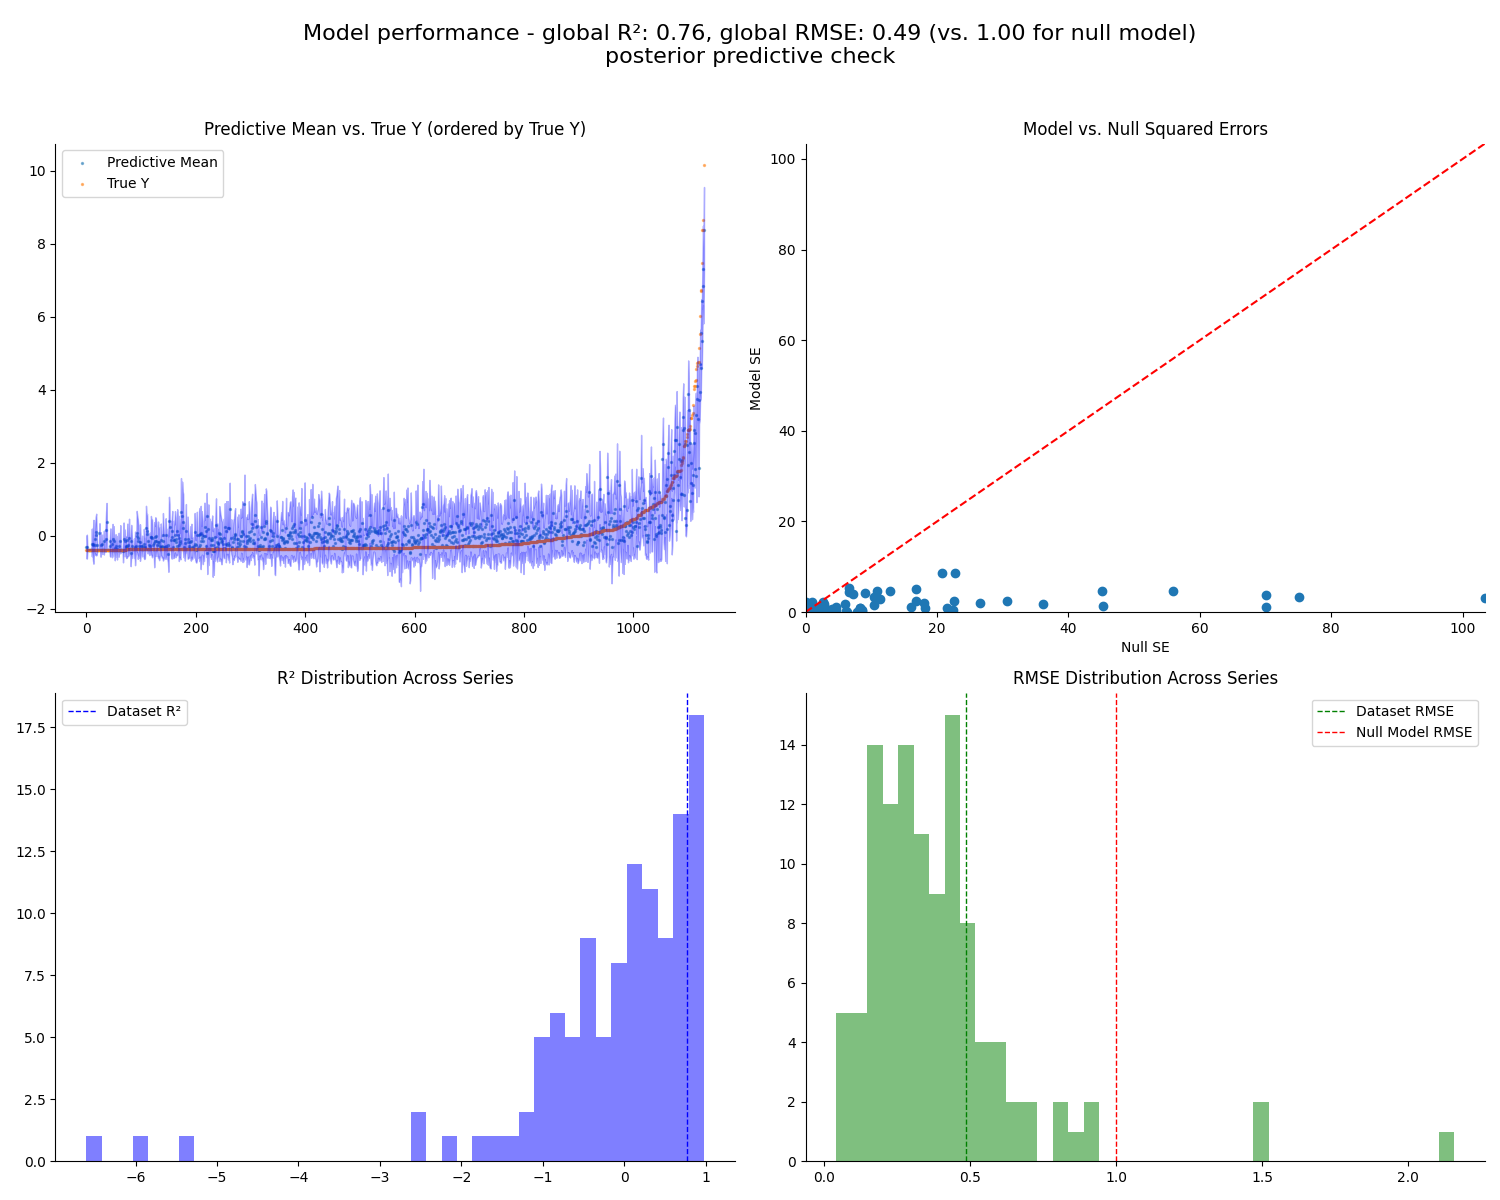
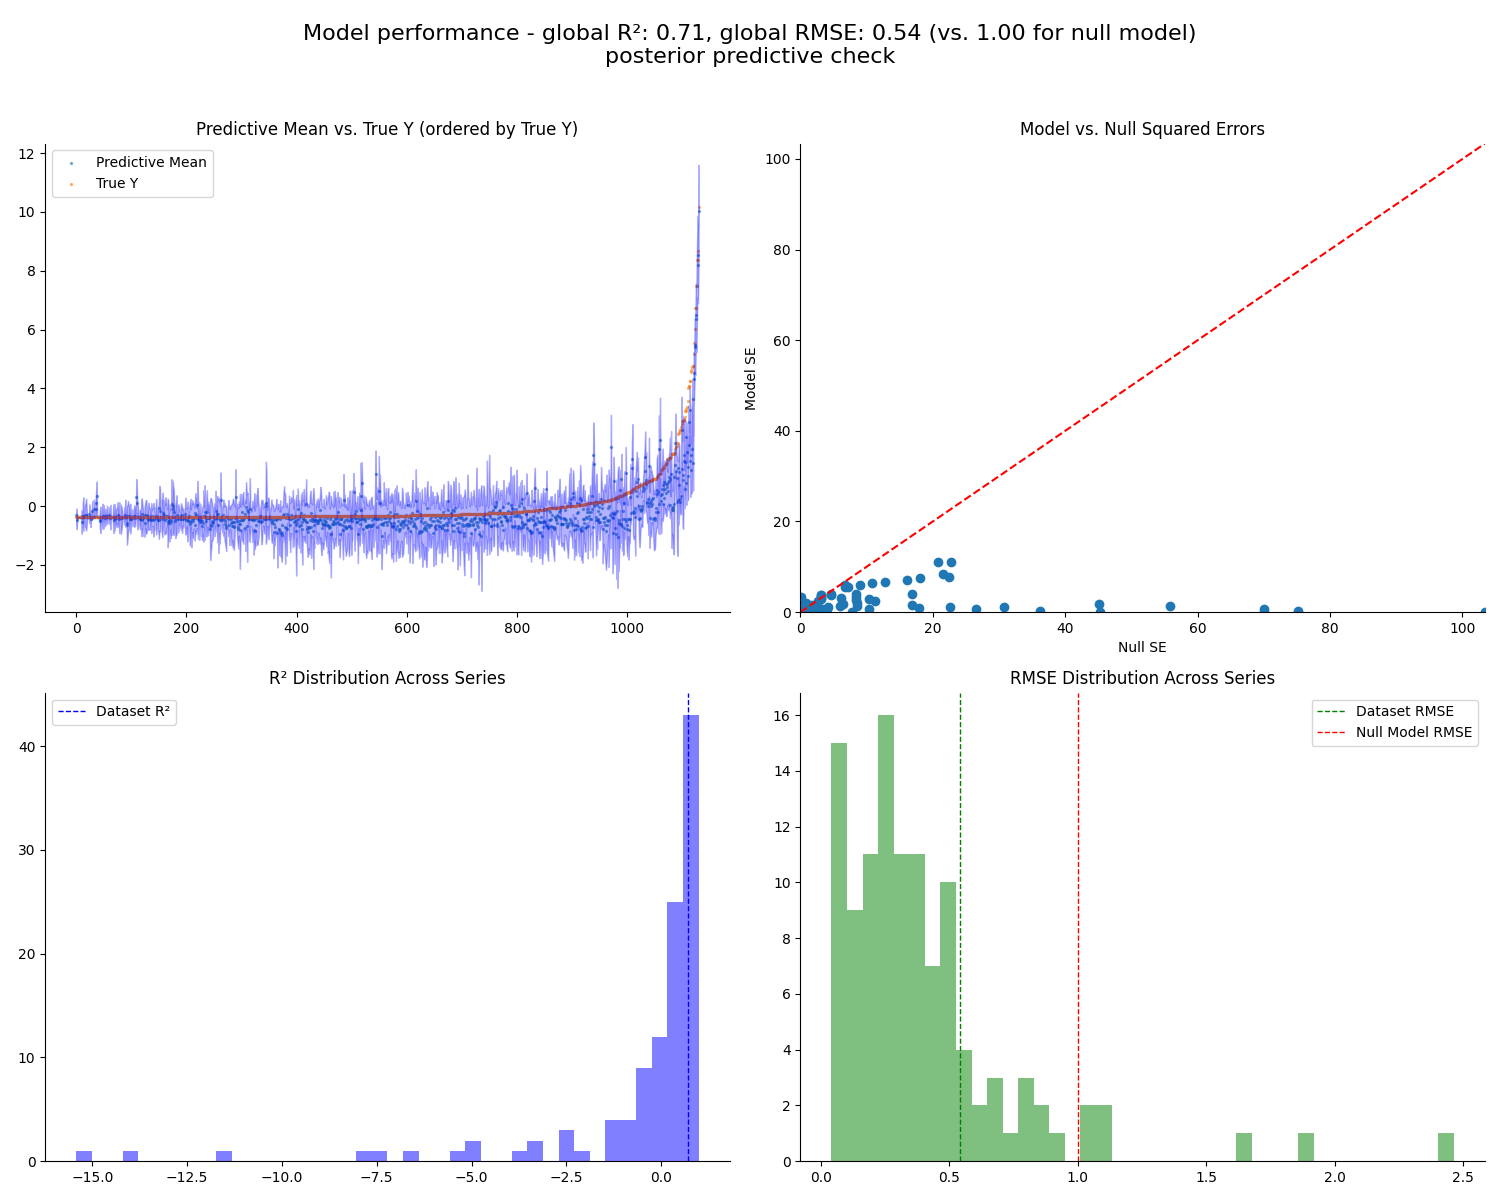
median value added

diff --git a/cities/modeling/zoning_models/zoning_tracts_ts_model.py b/cities/modeling/zoning_models/zoning_tracts_ts_model.py
@@ -10,6 +10,7 @@ from cities.modeling.model_components import (
     get_n,
     get_categorical_levels,
     check_categorical_is_subset_of_levels,
+    add_linear_component,
 )
 
 
@@ -110,9 +111,9 @@ class TractsModelCumulativeAR1(pyro.nn.PyroModule):
 
             ## temporary plug in of predictors meant to come from a causal model
 
-            median_value = pyro.sample(
-                "median_value", dist.Normal(0, 1), obs=continuous["median_value"]
-            )
+            # median_value = pyro.sample(
+            #     "median_value", dist.Normal(0, 1), obs=continuous["median_value"]
+            # )
             
             income = pyro.sample( 
                 "income", dist.Normal(0, 1), obs=continuous["income"]
@@ -145,6 +146,33 @@ class TractsModelCumulativeAR1(pyro.nn.PyroModule):
                 dist.Normal(0, 1),
                 obs=continuous["university_overlap"],
             )
+
+            #  _____________________________
+            # regression for median value
+            # _____________________________
+
+        value_continuous_parents = {
+            "distance": distance,
+            "income": income,
+            "white": white,
+            "segregation": segregation,
+            "sqm": sqm,
+            "limit": limit,
+        }
+
+        value_categorical_parents = {
+            "year": year,
+        }
+
+        median_value = add_linear_component(
+            child_name="median_value",
+            child_continuous_parents=value_continuous_parents,
+            child_categorical_parents=value_categorical_parents,
+            leeway=0.5,
+            data_plate=data_plate,
+            observations=continuous["median_value"],
+            categorical_levels=self.categorical_levels,
+        )
 
 
         ## now applying the ar1 component
